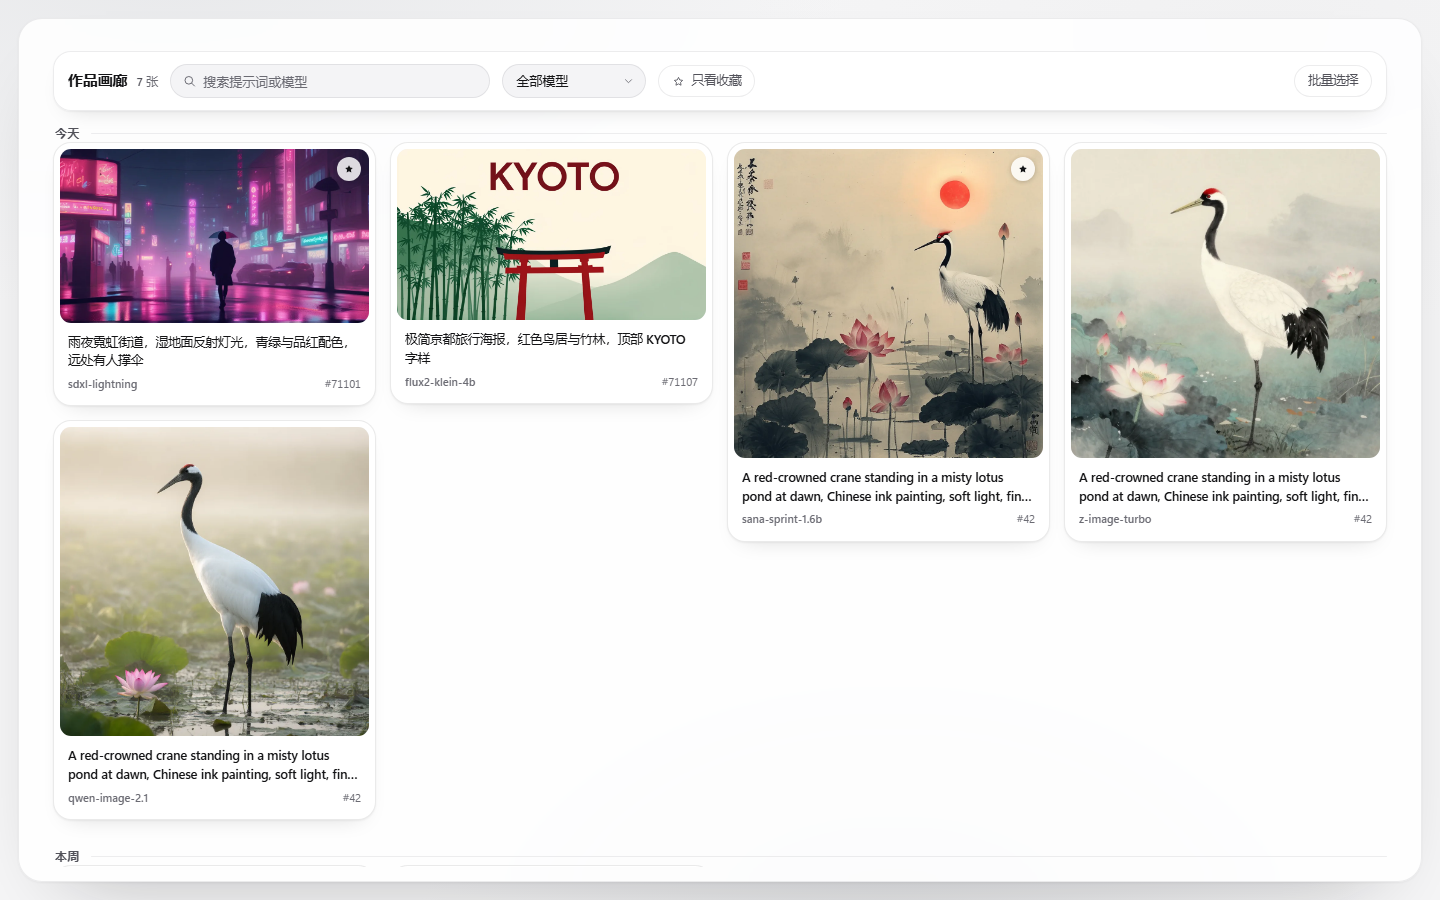
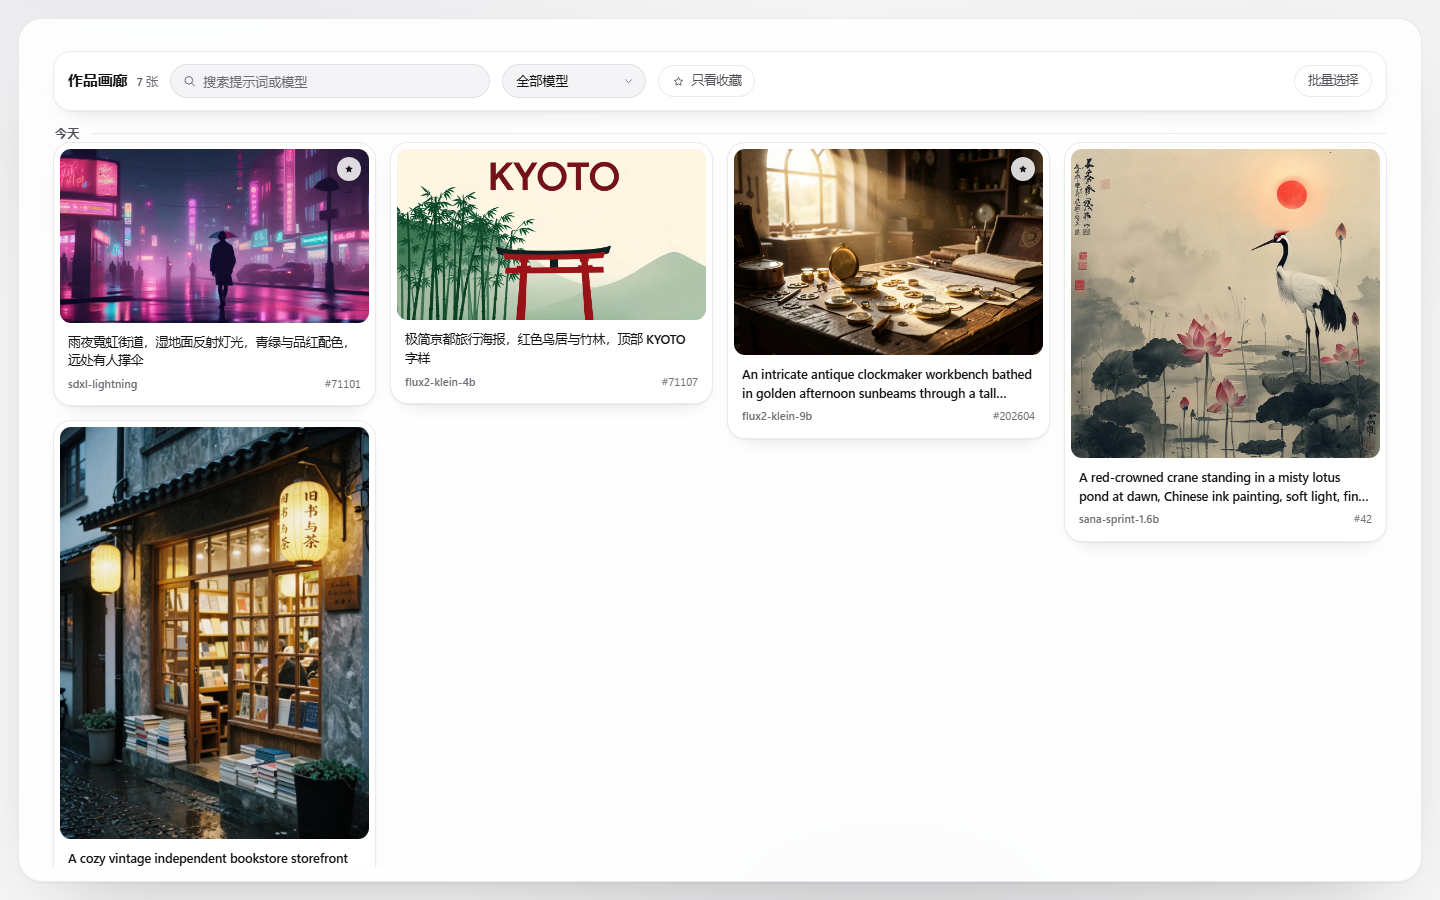
docs(showcase): 刷新 7 款模型多题材真机示例墙与官网/README 截图

Changed region(s): [[0.5, 0.1556, 0.9688, 0.5911], [0.0312, 0.4667, 0.2812, 0.9644], [0.75, 0.56, 0.8125, 0.5911]]

diff --git a/site/src/index.html b/site/src/index.html
@@ -52,7 +52,7 @@
 
   <div class="ambient" aria-hidden="true">
     <div class="room-photo-wrap">
-      <img class="room-photo" src="./assets/showcase/flux2-klein-9b-crane-pond.webp" alt="" fetchpriority="low" />
+      <img class="room-photo" src="./assets/showcase/flux2-klein-9b-clockmaker-bench.webp" alt="" fetchpriority="low" />
       <div class="room-veil"></div>
     </div>
     <div class="lamp" id="lamp"></div>
@@ -265,7 +265,7 @@
           <div class="seg" id="model-filter" role="group" aria-label="按模型速度筛选" data-t-aria="modelFilterAria">
             <button type="button" class="seg-btn is-active" data-filter="all" data-t="filterAll">全部 7 款</button>
             <button type="button" class="seg-btn" data-filter="fast" data-t="filterFast">极速档 (≤11s)</button>
-            <button type="button" class="seg-btn" data-filter="usable" data-t="filterUsable">高精度与二次元</button>
+            <button type="button" class="seg-btn" data-filter="usable" data-t="filterUsable">主力与二次元</button>
           </div>
         </div>
       </div>

diff --git a/site/src/js/i18n.js b/site/src/js/i18n.js
@@ -44,7 +44,7 @@ export const I18N = {
     modelFilterAria: '按推理速度筛选模型',
     filterAll: '全部 7 款',
     filterFast: '极速档 (≤11s)',
-    filterUsable: '高精度与二次元',
+    filterUsable: '主力与二次元',
     modelListAria: '选择模型',
     railHeadModel: '预置模型',
     railHeadSpeed: '单张稳态耗时',
@@ -244,7 +244,7 @@ export const I18N = {
     modelFilterAria: 'Filter models by speed',
     filterAll: 'All 7 Models',
     filterFast: 'Fast (≤11s)',
-    filterUsable: 'Detailed & Anime',
+    filterUsable: 'Mainstream & Anime',
     modelListAria: 'Choose a model',
     railHeadModel: 'Built-in Presets',
     railHeadSpeed: 'Steady / Image',

diff --git a/site/src/js/data.js b/site/src/js/data.js
@@ -14,8 +14,8 @@ export const showcaseItems = Array.isArray(SITE_DATA.showcase?.items) ? SITE_DAT
 const HERO_PICKS = [
   'flux2-klein-4b-kyoto-poster.webp',
   'sdxl-lightning-cyberpunk-street.webp',
-  'qwen-image-2.1-crane-pond.webp',
-  'anima-turbo-v1.1-crane-pond.webp',
+  'qwen-image-2.1-botanica-poster.webp',
+  'anima-turbo-v1.1-seaside-station.webp',
 ];
 
 export const heroItems = HERO_PICKS.map((file) => showcaseItems.find((item) => item.file === file)).filter(

diff --git a/README.en.md b/README.en.md
@@ -142,9 +142,7 @@ Not every machine has a high-VRAM GPU, and setting up PyTorch, CUDA, and ComfyUI
 
 ## Model Showcase
 
-All 7 samples below were generated by this plugin on real GPUs and converted to WebP without post-processing; timings are from each generation record and refer to the **first image** (including cold start / model-switch warm-up, not the steady state). The speed shown on model cards is the steady-state median (first image discarded, median of the next 3).
-
-Five of them are a **same-prompt comparison across models**: a red-crowned crane in a misty lotus pond (seed 42, `A red-crowned crane standing in a misty lotus pond at dawn, Chinese ink painting, soft light, fine detail`), generated on Colab L4 / T4 with different presets. `SANA-Sprint 1.6B` and `FLUX.2 Klein 9B` lean ink-wash, `Z-Image Turbo` and `Qwen-Image 2.1` lean photographic, and `Anima Turbo v1.1` renders anime illustration. The other 2 are the existing `SDXL Lightning` and `FLUX.2 Klein 4B` samples (Kaggle 2×T4).
+All 7 samples below were generated by this plugin on real GPUs and converted to WebP without post-processing. Each sample highlights its model's specialty (street photography, ink wash, bilingual typography, still-life lighting, and anime illustration); `Z-Image Turbo` and `Qwen-Image 2.1` were warmed up at matching resolution so timings reflect steady-state generation:
 
 <table>
 <tr>
@@ -162,8 +160,8 @@ Five of them are a **same-prompt comparison across models**: a red-crowned crane
 </td>
 <td width="33.3%">
 <div align="center">
-  <img src="docs/assets/showcase/z-image-turbo-crane-pond.webp" alt="Z-Image Turbo crane in a lotus pond" width="100%" />
-  <p><sub>Z-Image Turbo · Crane in a Lotus Pond · Colab L4 · 57.73s</sub></p>
+  <img src="docs/assets/showcase/z-image-turbo-alley-bookstore.webp" alt="Z-Image Turbo rainy alley bookstore" width="100%" />
+  <p><sub>Z-Image Turbo · Rainy Alley Bookstore · Colab L4 · 29.19s</sub></p>
 </div>
 </td>
 </tr>
@@ -171,8 +169,8 @@ Five of them are a **same-prompt comparison across models**: a red-crowned crane
 <tr>
 <td width="33.3%">
 <div align="center">
-  <img src="docs/assets/showcase/qwen-image-2.1-crane-pond.webp" alt="Qwen-Image 2.1 crane in a lotus pond" width="100%" />
-  <p><sub>Qwen-Image 2.1 · Crane in a Lotus Pond · Colab L4 · 91.21s</sub></p>
+  <img src="docs/assets/showcase/qwen-image-2.1-botanica-poster.webp" alt="Qwen-Image 2.1 Botanica conservatory poster" width="100%" />
+  <p><sub>Qwen-Image 2.1 · Botanica Conservatory Poster · Colab L4 · 39.25s</sub></p>
 </div>
 </td>
 <td width="33.3%">
@@ -183,8 +181,8 @@ Five of them are a **same-prompt comparison across models**: a red-crowned crane
 </td>
 <td width="33.3%">
 <div align="center">
-  <img src="docs/assets/showcase/flux2-klein-9b-crane-pond.webp" alt="FLUX.2 Klein 9B crane in a lotus pond" width="100%" />
-  <p><sub>FLUX.2 Klein 9B · Crane in a Lotus Pond · Colab L4 · 130.87s</sub></p>
+  <img src="docs/assets/showcase/flux2-klein-9b-clockmaker-bench.webp" alt="FLUX.2 Klein 9B clockmaker workbench" width="100%" />
+  <p><sub>FLUX.2 Klein 9B · Clockmaker Workbench · Colab L4 · 113.1s</sub></p>
 </div>
 </td>
 </tr>
@@ -195,8 +193,8 @@ Five of them are a **same-prompt comparison across models**: a red-crowned crane
 <td width="33.3%"></td>
 <td width="33.3%">
 <div align="center">
-  <img src="docs/assets/showcase/anima-turbo-v1.1-crane-pond.webp" alt="Anima Turbo v1.1 crane in a lotus pond" width="100%" />
-  <p><sub>Anima Turbo v1.1 · Crane in a Lotus Pond · Colab T4 · 21.56s</sub></p>
+  <img src="docs/assets/showcase/anima-turbo-v1.1-seaside-station.webp" alt="Anima Turbo v1.1 girl at seaside station" width="100%" />
+  <p><sub>Anima Turbo v1.1 · Girl at Seaside Station · Colab L4 · 9.81s</sub></p>
 </div>
 </td>
 <td width="33.3%"></td>

diff --git a/README.md b/README.md
@@ -144,9 +144,7 @@
 
 ## 模型示例
 
-以下 7 张样张均由本插件真机生成，仅转存为 WebP，未做后期修图；耗时取自当次生成记录，是**首图耗时**（含冷启 / 切模型预热，不等同稳态）；模型卡上的速度读数按「丢弃首张 + 后 3 张中位数」的稳态口径回填。
-
-其中 5 张是**同一提示词 · 各模型风格对照**：红冠鹤与晨间荷塘（seed 42，`A red-crowned crane standing in a misty lotus pond at dawn, Chinese ink painting, soft light, fine detail`）在 Colab L4 / T4 上跨模型生成——`SANA-Sprint 1.6B` 与 `FLUX.2 Klein 9B` 偏水墨，`Z-Image Turbo` 与 `Qwen-Image 2.1` 偏写实摄影，`Anima Turbo v1.1` 为二次元插画。另外 2 张是 `SDXL Lightning` 与 `FLUX.2 Klein 4B` 的既有示例（Kaggle 2×T4）。
+以下 7 张样张均由本插件真机生成，仅转存为 WebP，未做后期修图；各模型分别按自身擅长题材（街景、水墨、中英排版、静物光影、二次元角色等）生成，耗时为当次生成记录（`Z-Image Turbo`、`Qwen-Image 2.1` 经同尺寸预热，贴近模型卡稳态读数）：
 
 <table>
 <tr>
@@ -164,8 +162,8 @@
 </td>
 <td width="33.3%">
 <div align="center">
-  <img src="docs/assets/showcase/z-image-turbo-crane-pond.webp" alt="Z-Image Turbo 生成的红冠鹤与晨间荷塘" width="100%" />
-  <p><sub>Z-Image Turbo · 红冠鹤与晨间荷塘 · Colab L4 · 57.73 秒</sub></p>
+  <img src="docs/assets/showcase/z-image-turbo-alley-bookstore.webp" alt="Z-Image Turbo 生成的雨巷旧书店" width="100%" />
+  <p><sub>Z-Image Turbo · 雨巷旧书店 · Colab L4 · 29.19 秒</sub></p>
 </div>
 </td>
 </tr>
@@ -173,8 +171,8 @@
 <tr>
 <td width="33.3%">
 <div align="center">
-  <img src="docs/assets/showcase/qwen-image-2.1-crane-pond.webp" alt="Qwen-Image 2.1 生成的红冠鹤与晨间荷塘" width="100%" />
-  <p><sub>Qwen-Image 2.1 · 红冠鹤与晨间荷塘 · Colab L4 · 91.21 秒</sub></p>
+  <img src="docs/assets/showcase/qwen-image-2.1-botanica-poster.webp" alt="Qwen-Image 2.1 生成的温室植物志海报" width="100%" />
+  <p><sub>Qwen-Image 2.1 · 温室植物志海报 · Colab L4 · 39.25 秒</sub></p>
 </div>
 </td>
 <td width="33.3%">
@@ -185,8 +183,8 @@
 </td>
 <td width="33.3%">
 <div align="center">
-  <img src="docs/assets/showcase/flux2-klein-9b-crane-pond.webp" alt="FLUX.2 Klein 9B 生成的红冠鹤与晨间荷塘" width="100%" />
-  <p><sub>FLUX.2 Klein 9B · 红冠鹤与晨间荷塘 · Colab L4 · 130.87 秒</sub></p>
+  <img src="docs/assets/showcase/flux2-klein-9b-clockmaker-bench.webp" alt="FLUX.2 Klein 9B 生成的黄金时刻钟表匠工作台" width="100%" />
+  <p><sub>FLUX.2 Klein 9B · 黄金时刻钟表匠工作台 · Colab L4 · 113.1 秒</sub></p>
 </div>
 </td>
 </tr>
@@ -197,8 +195,8 @@
 <td width="33.3%"></td>
 <td width="33.3%">
 <div align="center">
-  <img src="docs/assets/showcase/anima-turbo-v1.1-crane-pond.webp" alt="Anima Turbo v1.1 生成的红冠鹤与晨间荷塘" width="100%" />
-  <p><sub>Anima Turbo v1.1 · 红冠鹤与晨间荷塘 · Colab T4 · 21.56 秒</sub></p>
+  <img src="docs/assets/showcase/anima-turbo-v1.1-seaside-station.webp" alt="Anima Turbo v1.1 生成的黄昏海边站台少女" width="100%" />
+  <p><sub>Anima Turbo v1.1 · 黄昏海边站台少女 · Colab L4 · 9.81 秒</sub></p>
 </div>
 </td>
 <td width="33.3%"></td>

diff --git a/docs/ROADMAP.md b/docs/ROADMAP.md
@@ -437,7 +437,7 @@
 - **`qwen-image-2.1` 多图参考与透明背景（Colab L4）**：
   - 多图参考（`referenceImages` 2 张）：51.83s（`load_seconds=0`），出图 1024²；相对同会话纯文生图平均差 35.07/255（87.6% 变化），相对同提示词同 seed 的无参考对照平均差 **54.24/255（98.4% 变化）** → 参考条件确实生效（弱参考，构图仍由提示词与 seed 主导）。双参考峰值显存 20,127 MiB（L4 24 GB，余量约 4 GB）。
   - 透明背景：三次返回的 PNG 均为 RGBA（PNG 颜色类型 6），daemon `_encode_png` 原样保留 alpha；默认文生图 alpha 232~255（91.1% 为 255，实质不透明）；明确要求「透明背景 / 贴纸」时 alpha=0 占 7.9%、≤1 占 65.3%、=255 占 32.9%、不透明包围盒 510×856 → **当前链路可导出真透明背景**。透明区 RGB 仍有残留（偏紫），消费端必须按 alpha 合成。
-- **海报与文档**：新增 `sana-sprint-1.6b` / `z-image-turbo` / `qwen-image-2.1` 三张 Pexels 海报，`anima-light-lavender.webp` 重命名为 `anima-turbo-v1.1.webp`，删除 6 张下线模型海报；最终 6 份图片覆盖 7 张模型卡，data URL 合计 **17,598 字符**（上限 20,480）；README / README.en / PRODUCT / SPEC / ARCHITECTURE / MODEL_CARD_SPEC / MODEL_ASSET_SPEC 与示例墙（7 张，含 5 张同提示词跨模型对照）、README 界面截图同步更新；`docs/TROUBLESHOOTING.md` 补齐参考图 / 透明背景与扩图新口径。
+- **海报与文档**：新增 `sana-sprint-1.6b` / `z-image-turbo` / `qwen-image-2.1` 三张 Pexels 海报，`anima-light-lavender.webp` 重命名为 `anima-turbo-v1.1.webp`，删除 6 张下线模型海报；最终 6 份图片覆盖 7 张模型卡，data URL 合计 **17,598 字符**（上限 20,480）；README / README.en / PRODUCT / SPEC / ARCHITECTURE / MODEL_CARD_SPEC / MODEL_ASSET_SPEC 与示例墙（7 张多题材真机成片，含街景、水墨、书店招牌、中英海报排版、静物光影与二次元角色）、README 界面截图同步更新；`docs/TROUBLESHOOTING.md` 补齐参考图 / 透明背景与扩图新口径。
 
 ### 5. 阶段十七真机验收
 

diff --git a/CHANGELOG.md b/CHANGELOG.md
@@ -26,7 +26,7 @@
 
 ### 文档与示例
 
-- `docs/ROADMAP.md` 第十七节收口（状态、第 4 节验收记录、第 5 节真机验收、排期表）；`README.md` / `README.en.md` 更新 7 款模型清单、双算力来源与「同一提示词 · 各模型风格对照」示例墙（7 张 = 2 张既有 Kaggle 成片 + 5 张 Colab L4/T4 真机成片）；`docs/PRODUCT.md` / `docs/SPEC.md` / `docs/ARCHITECTURE.md` / `docs/MODEL_CARD_SPEC.md` / `docs/MODEL_ASSET_SPEC.md` 同步 7 款口径与 `providers` 现状；`docs/TROUBLESHOOTING.md` 补齐参考图 / 透明背景 / 现代扩图新口径，并新增「模型原生参考图与透明背景」一节。
+- `docs/ROADMAP.md` 第十七节收口（状态、第 4 节验收记录、第 5 节真机验收、排期表）；`README.md` / `README.en.md` 更新 7 款模型清单、双算力来源与多题材示例墙（7 张 = 2 张既有 Kaggle 成片 + 5 张 Colab L4 按各模型擅长题材生成的真机成片）；`docs/PRODUCT.md` / `docs/SPEC.md` / `docs/ARCHITECTURE.md` / `docs/MODEL_CARD_SPEC.md` / `docs/MODEL_ASSET_SPEC.md` 同步 7 款口径与 `providers` 现状；`docs/TROUBLESHOOTING.md` 补齐参考图 / 透明背景 / 现代扩图新口径，并新增「模型原生参考图与透明背景」一节。
 - `docs/assets/showcase/manifest.json` 重写为 7 条，清理 49 张下线模型成片；`src/studio/posters/SOURCES.md` 重写（6 份图片、data URL 合计 17,598 字符 ≤ 20,480）；README 四张界面截图用现役模型重新生成。
 
 ### 真机验收（Colab L4，2026-11-20）
